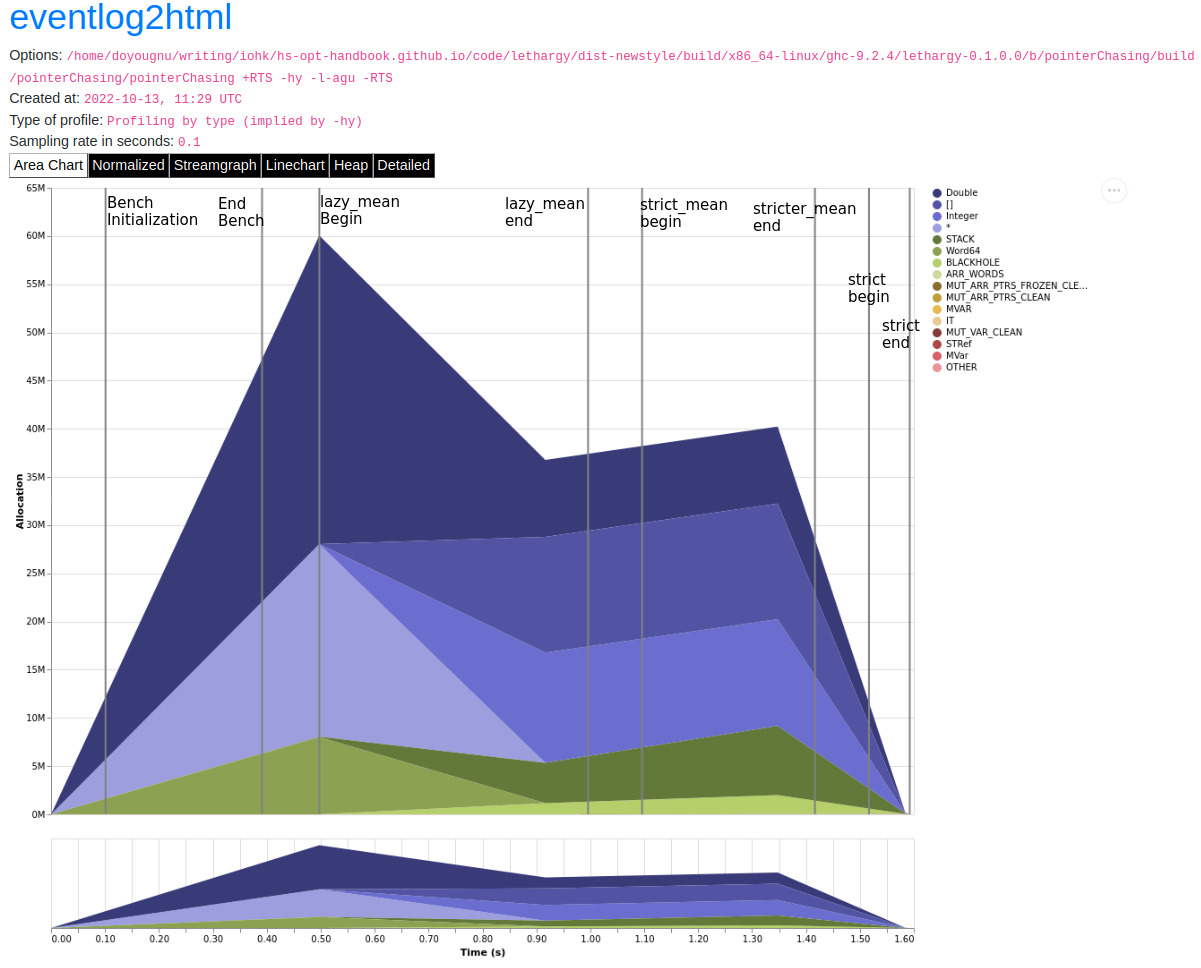
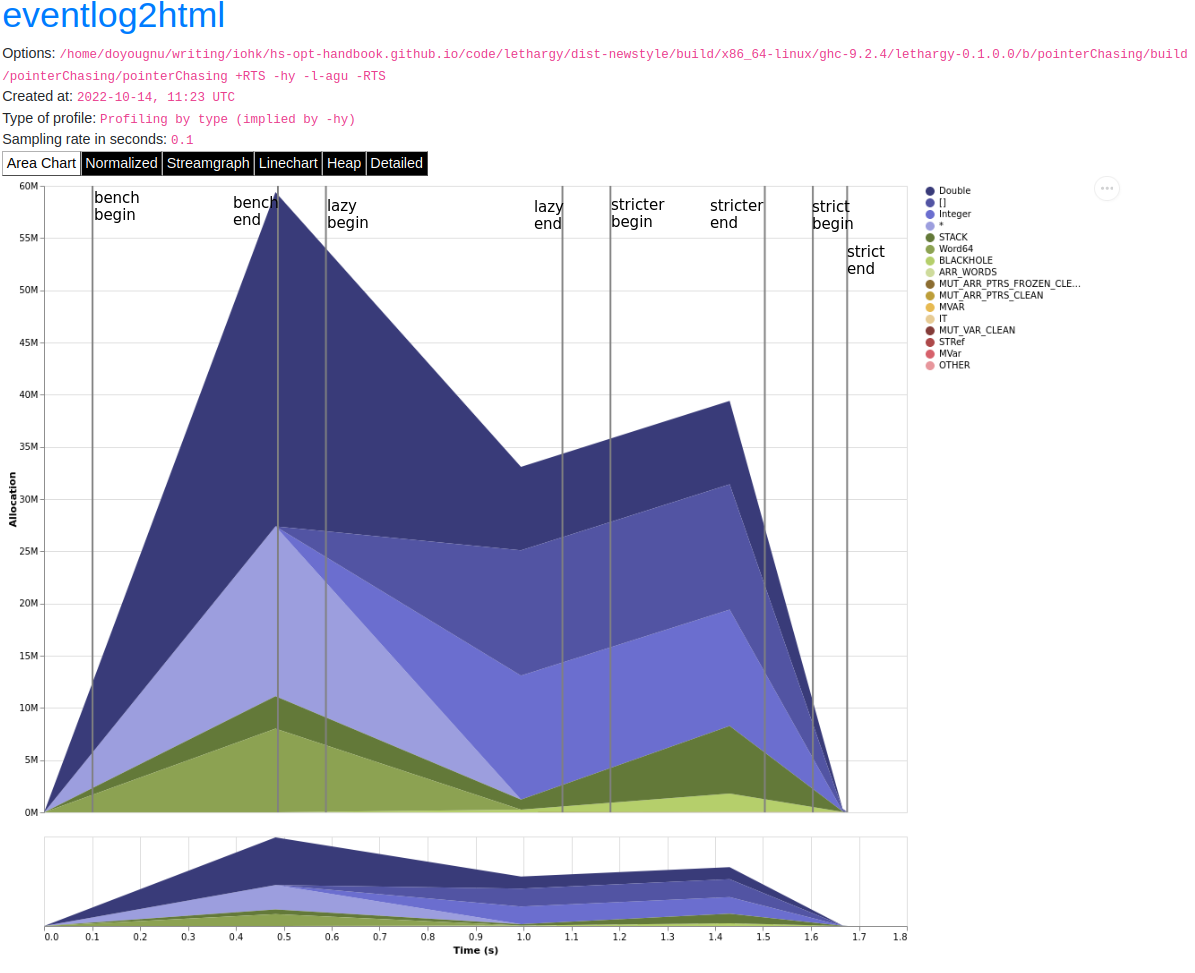
Eventlog: close to finished

Changed region(s): [[0.0, 0.0, 1.0, 0.9917], [0.4025, 0.5579, 0.4335, 0.5888], [0.3096, 0.3099, 0.3406, 0.3409]]

diff --git a/src/Measurement_Observation/Heap_Ghc/eventlog.rst b/src/Measurement_Observation/Heap_Ghc/eventlog.rst
@@ -441,18 +441,129 @@ simple one line change in ``main``:
 .. image:: /_images/Measurement_Observation/Heap_GHC/eventlog/pc_heap_marker_still_leaky.png
    :scale: 80 %
 
+Notice the y-axis has reduced, our maximum heap allocations have decreased to
+~51M, however we clearly still have a memory leak in the bench setup. The only
+remaining source of possible thunks in ``test_values`` is ``uniformRM``. So
+we'll remove any possible lazy IO from that call:
 
-..
-  label the still leaky graph. point out the total allocatiosn have reduced but
-  we still ahve a leak then fix the memory leak with another evaluate
-  force. show the empty profile, and then increase the sampling rate
+.. code-block:: haskell
 
+  main :: IO ()
+  main = do
+    let wait = threadDelay 100000
+    -- create a delay at the beginning of the program, if we don't do this then
+    -- our marker will be merged with the y-axis of the heap profile
+    wait
+    traceMarkerIO "Bench Initialization"
+    -- generate random test data
+    seed <- newIOGenM (mkStdGen 1729)
+    let genValue = fmap force uniformRM (0,500000) seed   >>= evaluate         -- <--- new
+    test_values <- fmap force (replicateM 50000 genValue) >>= evaluate         -- <--- new
+    traceMarkerIO "End Bench Initialization"
+    wait
+    -- now run
+    print $! lazy_mean test_values
+    traceMarkerIO "End lazy_mean"
+    wait
+    print $! stricter_mean test_values
+    traceMarkerIO "End stricter_mean"
+    wait
+    print $! strict_mean test_values
+    traceMarkerIO "End strict_mean"
+
+which produces an empty heap profile!:
+
+.. image:: /_images/Measurement_Observation/Heap_GHC/eventlog/pc_heap_marker_empty.png
+   :scale: 80 %
+
+Now that we've removed those thunks our heap profile sampling rate is to slow.
+Let's sample 100x more frequently by setting the ``-i`` RTS flag. The invocation
+now becomes:
+
+.. code-block:: bash
+
+    $ cabal bench pointerChasing --benchmark-options='+RTS -hy -l-agu -i0.001
+    -RTS'; eventlog2html pointerChasing.eventlog && firefox pointerChasing.eventlog.html
+
+and produces this heap profile:
+
+.. image:: /_images/Measurement_Observation/Heap_GHC/eventlog/pc_heap_marker_high_sample.png
+   :scale: 80 %
+
+There are several things to point out. The y-axis has reduced to ~7M maximum,
+and the x-axis has also reduced from 1.8 seconds to 0.9 seconds. We can clearly
+see the memory leaks from ``lazy`` and ``stricter`` now. In fact, ``lazy`` has a
+total of three memory leaks, and ``stricter`` has two. Because our program is
+relatively simple, there are not many sites where these leaks could originate.
+We'll focus on ``stricter_mean``, and add markers to the source of the remaining
+leaks. Here is ``stricter_mean`` reproduced to refresh your memory:
+
+.. code-block:: haskell
+
+   stricter_mean :: [Double] -> Double
+   stricter_mean xs = traceMarker "Begin: stricter_mean" $ s / fromIntegral ln
+     where (s, ln)        = foldl' step (0,0) xs
+           step (s, ln) a = (s + a, ln + 1)
+
+We observed two leaks. We know that the fold should produce one leak because
+``foldl'`` evaluates the accumulator to weak head normal form, and the ``step``
+function does not evaluate the values inside its input ``(,)``, thus
+accumulating thunks in the elements of the tuple. Let's add markers to verify
+this behavior:
+
+.. code-block:: haskell
+
+   stricter_mean :: [Double] -> Double
+   stricter_mean xs = (traceMarker "s" s) / fromIntegral (traceMarker "ln" ln)
+     where (s, ln)        = foldl' step (0,0) xs
+           step (s, ln) a = (s + a, ln + 1)
+
+
+and heap profile:
+
+.. image:: /_images/Measurement_Observation/Heap_GHC/eventlog/pc_heap_marker_s_ln.png
+   :scale: 80 %
+
+Now we can see that the call to ``ln`` reduces a lot of the heap, i.e.,
+evaluates a lot of thunks. Let's make ``ln`` strict in ``step`` and observe the
+difference in the heap profile:
+
+.. code-block:: haskell
+
+   stricter_mean :: [Double] -> Double
+   stricter_mean xs = (traceMarker "s" s) / fromIntegral (traceMarker "ln" ln)
+     where (s, ln)        = foldl' step (0,0) xs
+           step (s, !ln) a = (s + a, ln + 1)
+
+and now we have:
+
+.. image:: /_images/Measurement_Observation/Heap_GHC/eventlog/pc_heap_marker_strict_ln.png
+   :scale: 80 %
+
+Notice the y-axis has further reduced. We still have a leak after ``s``, but
+this was expected. Let's make sure this is coming from ``s`` by making ``s``
+strict and generate the final profile:
+
+.. code-block:: haskell
+
+   stricter_mean :: [Double] -> Double
+   stricter_mean xs = (traceMarker "s" s) / fromIntegral (traceMarker "ln" ln)
+     where (s, ln)        = foldl' step (0,0) xs
+           step (!s, !ln) a = (s + a, ln + 1)
+
+which yields:
+
+.. image:: /_images/Measurement_Observation/Heap_GHC/eventlog/pc_heap_marker_strict_s_ln.png
+   :scale: 80 %
 ..
   Show the trace marker behavior with waits so we can see
   point out the strange memory leak in strict_mean
   then add markers to show that there is time between the end of strict_mean and
   when the values (s,ln) are requested, then add bangs and a marker to show that
   they unify. Perhaps show just a profile of -O2 to show the heap under normal conditions
+
+We could further investigate but our heap is now constant across
+``stricter_mean`` validating the lazy tuple hypothesis.
 
 
 
